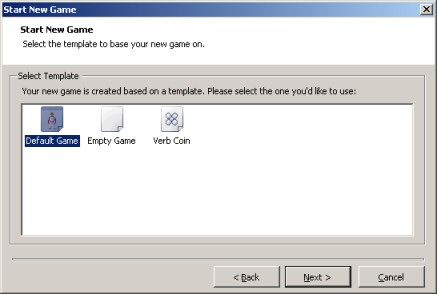
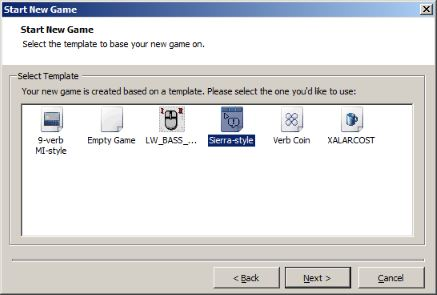
Manual: updated information on templates

diff --git a/Manual/htmlfiles/acintro1.htm b/Manual/htmlfiles/acintro1.htm
@@ -212,14 +212,15 @@ Resources &gt; Tutorials</td>
 		<img border="0" src="images/intro1b.jpg" width="437" height="294"><br>
       	<i>Select Template dialog</i> </p>
 		<p align="left" dir="ltr">Here, you need to choose which template you're 
-		going to use for your new game. AGS comes with three, and you can find 
+		going to use for your new game. AGS comes with several ones, and you can find 
 		others for download on the AGS Forums.</p>
-		<p align="left" dir="ltr">The &quot;Default Game&quot; template is what we'll be 
-		using, as it comes with some default graphics to get you started 
-		quickly. The &quot;Empty Game&quot; template is something you may want to use 
+		<p align="left" dir="ltr">The &quot;Sierra-style&quot; template is what we'll be 
+		using, as it has classic Sierra adventure game UI and comes with some default
+		graphics to get you started quickly.
+		The &quot;Empty Game&quot; template is something you may want to use 
 		later on when you're familiar with AGS - it comes with no default 
 		graphics at all.</p>
-		<p align="left" dir="ltr">So, select &quot;Default Game&quot; and click Next.</p>
+		<p align="left" dir="ltr">So, select &quot;Sierra-style&quot; and click Next.</p>
 		<p align="center" dir="ltr">
 		<img border="0" src="images/intro1c.jpg" width="437" height="294"><br>
       	<i>Game Name dialog</i> </p>

diff --git a/Manual/ags.tex b/Manual/ags.tex
@@ -2307,6 +2307,14 @@ box, a window appears with various templates that you can base your game off.
 
 AGS comes with a few standard templates, but you can create your own too.
 
+\bf{NOTE:} the previously available "Default" template is now known as "Sierra-style". It also contains updated graphics.
+
+\bf{If the list of templates is empty}
+
+The templates are normally located in "Templates" folder withing AGS Editor directory. If the folder is empty,
+this may happen if AGS Editor installation went wrong, or you have used an incomplete package. Try to reinstall AGS, or,
+if you have other versions of AGS available, you may simply copy template files from these (ones with AGT extension).
+
 \bf{Using downloaded templates}
 
 If you've downloaded a game template from the internet, you should find a file with
@@ -22948,7 +22956,7 @@ The AGS forum:   http://www.adventuregamestudio.co.uk/forums/
 \item Windows editor original splash design by abstauber.
 \item Windows editor icons by Klaus.
 \item Blank Game template created by AGA.
-\item Sierra-like game template originally worked on by Rui "Trovatore" Pires, enhanced with the new art by ProgZmax, CaesarCub, Hobo, Selmiak and Jim Reed.
+\item Sierra-style game template originally worked on by Rui "Trovatore" Pires, enhanced with the new art by ProgZmax, CaesarCub, Hobo, Selmiak and Jim Reed.
 \item LEC 9-verb template by abstauber.
 \item Verb Coin template by Electroshokker, graphics by Misj.
 \item Lightweight BASS template by Bjorn Ludwig.
